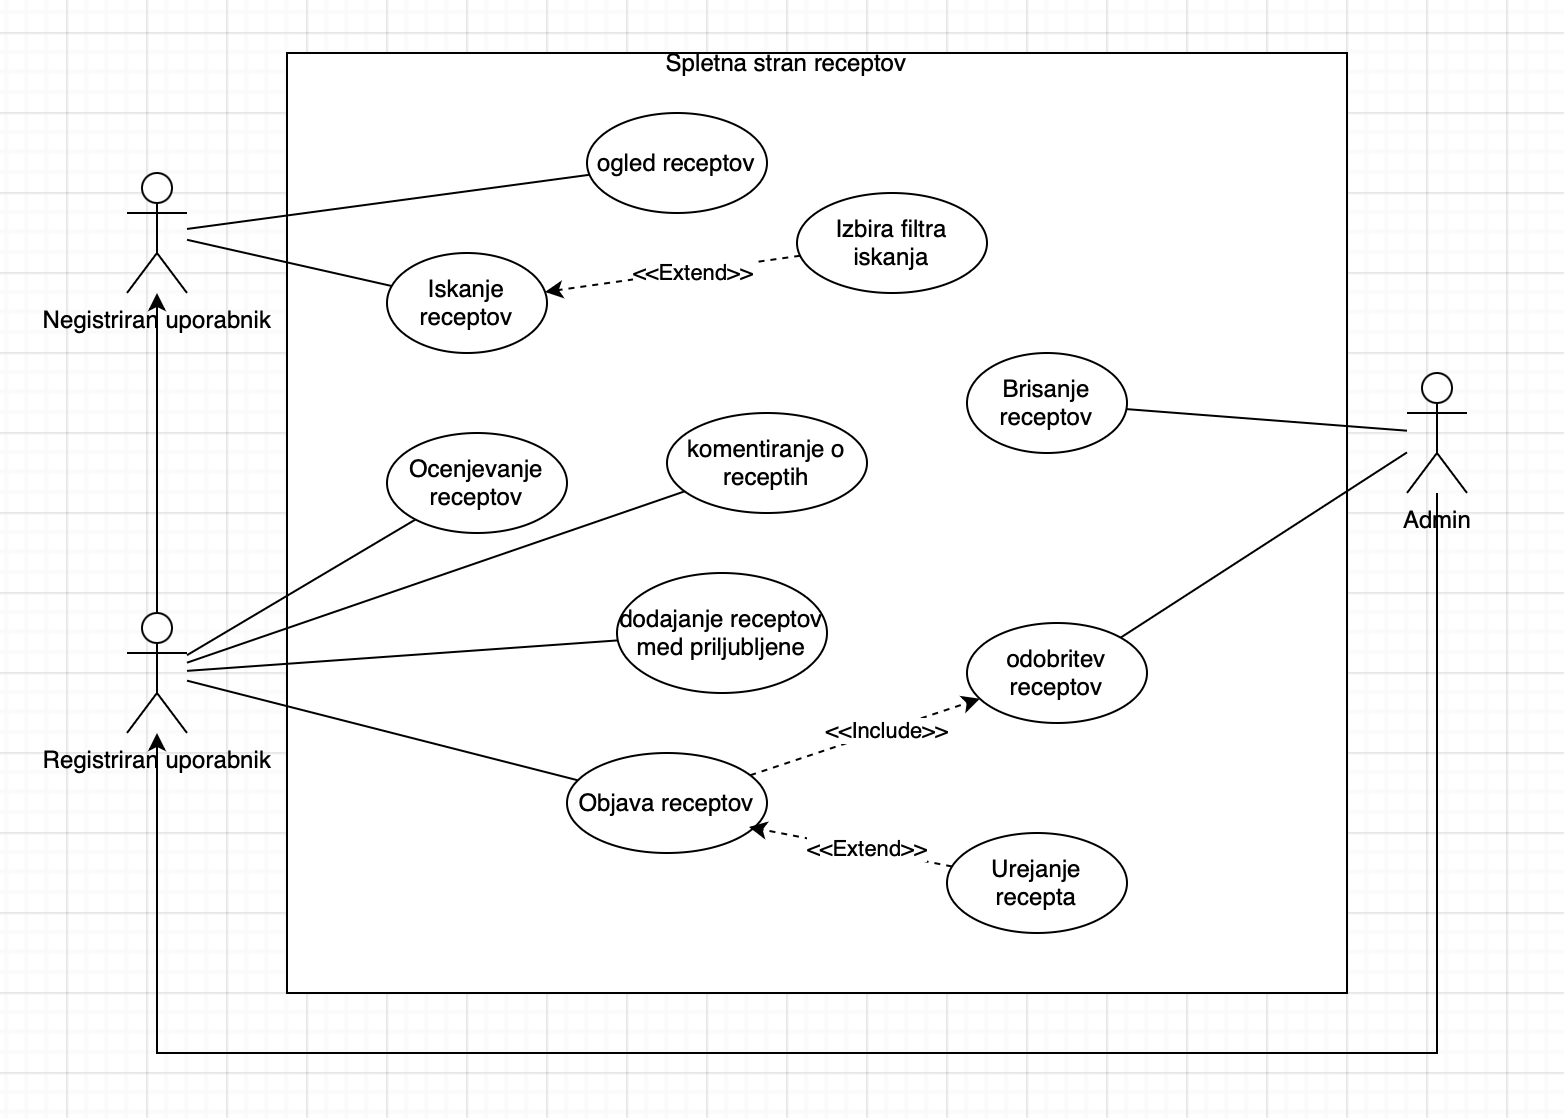
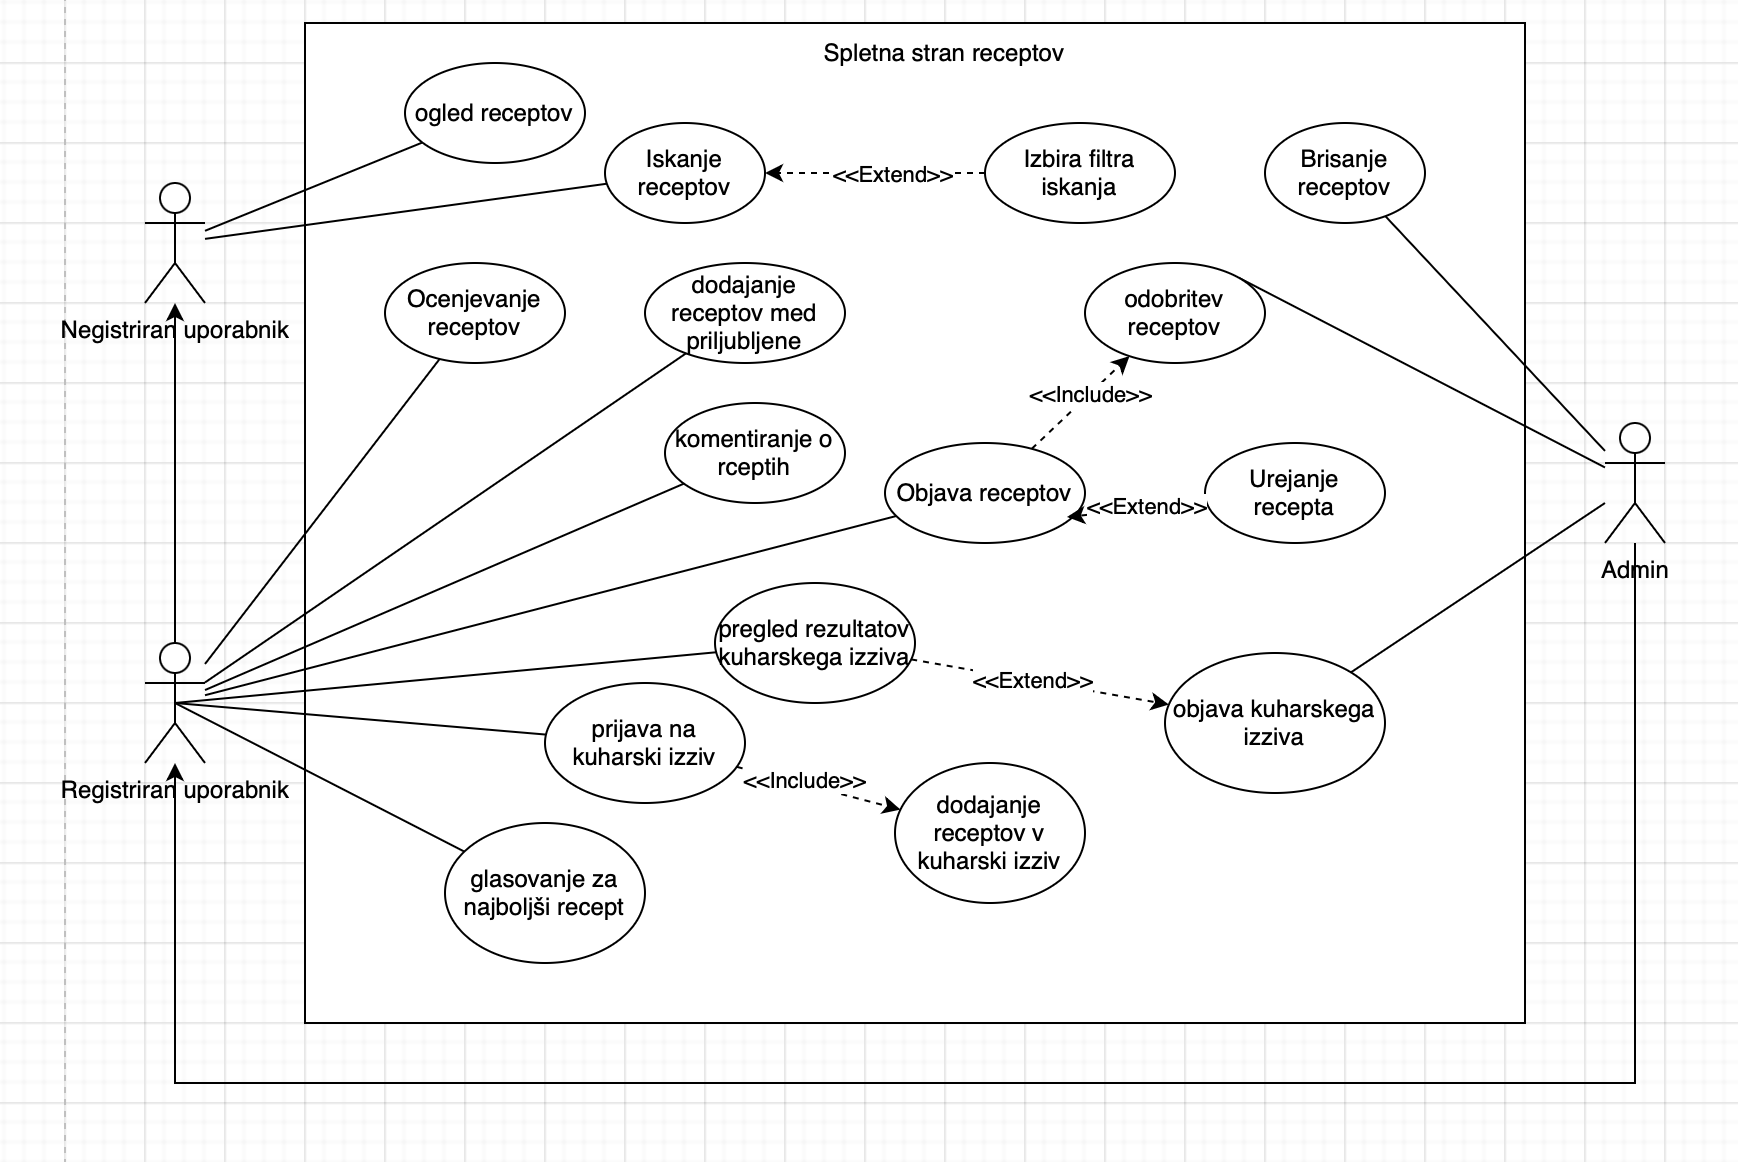
novi dpu in razširjena funkcionalnost

diff --git a/README.md b/README.md
@@ -137,19 +137,7 @@ This project is licensed under the terms of the MIT license.
 
 ![System Architecture Diagram](dpu.jpg)
 
-## Scenarij
-
-1. Ogled receptov: Uporabnik si lahko ogleda podrobnosti izbranih receptov, vključno z njihovimi sestavinami in navodili za pripravo.
-2. Iskanje receptov: Uporabnik lahko išče recepte po različnih kriterijih. 
-3. Izbira filtra iskanja: Ta funkcionalnost razširja osnovno iskanje, tako da uporabnik lahko filtrira rezultate iskanja glede na sestavine, čas priprave, ocene itd.
-4. Komentiranje o receptih: Uporabnik lahko deli svoje mnenje in nasvete z drugimi uporabniki.
-5. Ocenjevanje receptov: Uporabnik lahko oceni recepte, kar pomaga drugim uporabnikom pri iskanju kakovostnih receptov.
-6. Objava receptov: Uporabnik lahko deli svoje lastne recepte.
-7. Urejanje receptov: Uporabnik lahko po potrebi ureja svoje recepte pred deljenjem ali kasneje.
-8. Dodajanje receptov med priljubljene: Uporabnik lahko doda posamezne recepte med priljubljene, kjer so lažje dostopni.
-9. Odobritev receptov: Administrator pregleda in odobrava ali zavrača nove recepte, ki jih predložijo registrirani uporabniki, s čimer zagotavlja, da so recepti kakovostni in primerne vsebine.
-10. Brisanje receptov: administrator lahko izbriše recept, če ta ni primeren ali nepopolen.
- 
+## Scenarij 
 
 | **Primer uporabe:**  Ogled receptov | **ID:** 1  |
 |---------------------------------|--------------------------------------------------------------|
@@ -227,3 +215,97 @@ This project is licensed under the terms of the MIT license.
 | **Izjeme**                      | |
 | 1.                              | Napaka pri shranjevanju podatkov v bazo - sistem prikaže sporočilo o napaki in predlaga ponovno poskus objave. |
 | 2.                              | Admin ne odobri recepta zaradi neprimerne vsebine - uporabnik prejme obvestilo z razlogom zavrnitve. |
+
+
+
+| **Primer uporabe:**  Objavi kuharski izziv | **ID:**   |
+|---------------------------------|--------------------------------------------------------------|
+| **Cilj**                        | Omogočiti adminu, da objavi nov kuharski izziv.              |
+| **Primarni akterji**            | Admin                                                       |
+| **Sekundarni akterji**          | Registrirani uporabniki                                      |
+| **Predpogoji**                  | Admin je prijavljen in ima pravice za objavo izzivov.        |
+| **Stanje sistema po PU**        | Kuharski izziv je objavljen in je dostopen registriranim uporabnikom.      |
+| **Scenarij**                    |                                                              |
+| 1.                              | Admin odpre stran za upravljanje kuharskih izzivov.          |
+| 2.                              | Admin vnese podrobnosti o izzivu (naslov, opis, datum).      |
+| 3.                              | Admin objavi izziv, ki postane dostopen uporabnikom.          |
+| **Alternativni tokovi**         |                                                              |
+| 1.                              | Če admin ne vnese vseh potrebnih podatkov, sistem zahteva, da jih vnese. |
+| **Izjeme**                      |                                                              |
+| 1.                              | Napaka pri objavi izziva - sistem prikaže obvestilo o napaki. |
+
+
+| **Primer uporabe:**  Prijava na kuharski izziv | **ID:**   |
+|---------------------------------|--------------------------------------------------------------|
+| **Cilj**                        | Omogočiti uporabnikom, da se prijavijo na kuharski izziv.    |
+| **Primarni akterji**            | Registrirani uporabnik                                       |
+| **Sekundarni akterji**          | Sistem                                                       |
+| **Predpogoji**                  | Uporabnik je registriran in prijavljen v sistemu.            |
+| **Stanje sistema po PU**        | Uporabnik je uspešno prijavljen na izziv.                     |
+| **Scenarij**                    |                                                              |
+| 1.                              | Uporabnik odpre seznam kuharskih izzivov.                     |
+| 2.                              | Uporabnik izbere izziv, na katerega se želi prijaviti.       |
+| 3.                              | Uporabnik klikne gumb "Prijavi se".                           |
+| 4.                              | Sistem potrdi prijavo uporabnika.                             |
+| **Alternativni tokovi**         |                                                              |
+| 1.                              | Če uporabnik ni prijavljen, ga sistem pozove k prijavi.      |
+| 2.                              | Če uporabnik že sodeluje v izzivu, ga sistem obvesti, da je že prijavljen. |
+| **Izjeme**                      |                                                              |
+| 1.                              | Napaka pri prijavi - sistem prikaže obvestilo o napaki.       |
+
+
+
+| **Primer uporabe:**  Dodajanje receptov v kuharski izziv | **ID:**   |
+|---------------------------------|--------------------------------------------------------------|
+| **Cilj**                        | Omogočiti uporabnikom, da oddajo svoje recepte v okviru kuharskega izziva. |
+| **Primarni akterji**            | Registrirani uporabnik                                       |
+| **Sekundarni akterji**          | Sistem                                                       |
+| **Predpogoji**                  | Uporabnik je prijavljen v sistem in prijavljen na kuharski izziv.      |
+| **Stanje sistema po PU**        | Recept je uspešno oddan in označen kot del kuharskega izziva. |
+| **Scenarij**                    |                                                              |
+| 1.                              | Uporabnik odpre stran za oddajo recepta v kuharski izziv.                      |
+| 2.                              | Uporabnik vnese podatke o receptu (ime, sestavine, postopek). |
+| 3.                              | Uporabnik priloži fotografijo končnega izdelka.               |
+| 4.                              | Uporabnik klikne gumb "Oddaj recept".                         |
+| 5.                              | Sistem shrani recept v bazo in označi, da je oddan za izziv.  |
+| **Alternativni tokovi**         |                                                              |
+| 1.                              | Če uporabnik ne izpolni vseh polj, sistem prikaže opozorilo. |
+| **Izjeme**                      |                                                              |
+| 1.                              | Napaka pri nalaganju slike - uporabnik prejme obvestilo o napaki. |
+
+
+
+| **Primer uporabe:**  Glasovanje za najboljši recept | **ID:**   |
+|---------------------------------|--------------------------------------------------------------|
+| **Cilj**                        | Omogočiti uporabnikom, da glasujejo za najboljši recept v okviru kuharskega izziva. |
+| **Primarni akterji**            | Registrirani uporabnik                                       |
+| **Sekundarni akterji**          | Sistem                                                        |
+| **Predpogoji**                  | Uporabnik je prijavljen in ima dostop do kuharskega izziva.    |
+| **Stanje sistema po PU**        | Glas je uspešno oddan in zabeležen v sistemu.                 |
+| **Scenarij**                    |                                                              |
+| 1.                              | Uporabnik si ogleda recepte oddane v okviru izziva.           |
+| 2.                              | Uporabnik izbere recept, za katerega želi glasovati.          |
+| 3.                              | Uporabnik klikne gumb "Glasuj".                               |
+| 4.                              | Sistem beleži glas in obvešča uporabnika o uspešnem oddaji glasu. |
+| **Alternativni tokovi**         |                                                              |
+| 1.                              | Če uporabnik že glasuje, ga sistem obvesti, da je že oddal glas. |
+| **Izjeme**                      |                                                              |
+| 1.                              | Napaka pri oddaji glasu - sistem prikaže obvestilo o napaki.  |
+
+
+
+| **Primer uporabe:**  Pregled rezultatov kuharskega izziva | **ID:**   |
+|---------------------------------|--------------------------------------------------------------|
+| **Cilj**                        | Omogočiti adminu, da pregleda rezultate kuharskega izziva in objavi zmagovalca. |
+| **Primarni akterji**            | Admin                                                       |
+| **Sekundarni akterji**          | Sistem                                      |
+| **Predpogoji**                  | Kuharski izziv se je zaključil, glasovanje je končano.       |
+| **Stanje sistema po PU**        | Zmagovalec izziva je objavljen in obveščen.                  |
+| **Scenarij**                    |                                                              |
+| 1.                              | Admin pregleda vse oddane recepte in glasove.                |
+| 2.                              | Admin izbere zmagovalca na podlagi glasov.                   |
+| 3.                              | Admin objavi zmagovalca na spletni strani.                   |
+| **Alternativni tokovi**         |                                                              |
+| 1.                              | Če so rezultati izenačeni, admin izbere več zmagovalcev. |
+| **Izjeme**                      |                                                              |
+| 1.                              | Napaka pri obdelavi rezultatov - sistem prikaže obvestilo o napaki. |
